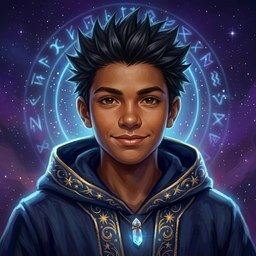
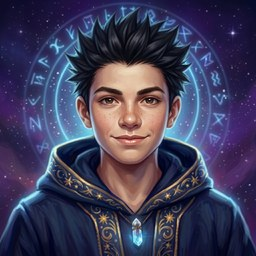
Duelo v40: Gohan Gog branco, Dudu calvo

diff --git a/duelo/service-worker.js b/duelo/service-worker.js
@@ -1,4 +1,4 @@
-const CACHE="duelo-v39";
+const CACHE="duelo-v40";
 const FILES=["./","index.html","manifest.webmanifest","icon-192-v2.png","icon-512-v2.png","icon-mask-v2.png","img/a_n20.jpg","img/a_n21.jpg","img/a_n22.jpg","img/a_n23.jpg","img/a_n24.jpg","img/a_n25.jpg","img/a_n26.jpg","img/a_n27.jpg","img/a_n28.jpg","img/a_n29.jpg","img/a_n30.jpg","img/a_g8.jpg","img/a_c5.jpg","img/a_o6.jpg","img/a_z7.jpg","img/a_z8.jpg","img/a_d1.jpg","img/a_d3.jpg","img/a_d5.jpg","img/a_d6.jpg","img/a_i1.jpg","img/a_i2.jpg","img/a_i3.jpg","img/a_i5.jpg","img/a_i6.jpg","img/a_i7.jpg","img/a_pi1.jpg","img/a_pi2.jpg","img/a_pi3.jpg","img/a_pi4.jpg","img/a_pi5.jpg","img/a_pi6.jpg","img/a_pi7.jpg","img/a_pi8.jpg","img/a_pi9.jpg","img/a_pi10.jpg","img/a_pi11.jpg","img/a_pi12.jpg","img/a_te1.jpg","img/a_te2.jpg","img/a_te3.jpg","img/a_te4.jpg","img/a_te5.jpg","img/a_te6.jpg","img/a_te7.jpg","img/a_te8.jpg","img/a_te9.jpg","img/a_te10.jpg","img/a_te11.jpg","img/a_te12.jpg","img/a_du1.jpg","img/a_du2.jpg","img/a_du3.jpg","img/a_du4.jpg","img/a_du5.jpg","img/a_du6.jpg","img/a_du7.jpg","img/a_du8.jpg","img/a_du9.jpg","img/a_du10.jpg","img/a_du11.jpg","img/a_du12.jpg","img/a_sn1.jpg","img/a_sn2.jpg","img/a_sn3.jpg","img/a_sn4.jpg","img/a_sn5.jpg","img/a_sn6.jpg","img/a_sn7.jpg","img/a_sn8.jpg","img/a_sn9.jpg","img/a_sn10.jpg","img/a_sn11.jpg","img/a_sn12.jpg","img/a_ca1.jpg","img/a_ca2.jpg","img/a_ca3.jpg","img/a_ca4.jpg","img/a_ca5.jpg","img/a_ca6.jpg","img/a_ca7.jpg","img/a_ca8.jpg","img/a_ca9.jpg","img/a_ca10.jpg","img/a_ca11.jpg","img/a_ca12.jpg","img/a_ne1.jpg","img/a_ne2.jpg","img/a_ne3.jpg","img/a_ne4.jpg","img/a_ne5.jpg","img/a_ne6.jpg","img/a_ne7.jpg","img/a_ne8.jpg","img/a_ne9.jpg","img/a_ne10.jpg","img/a_ne11.jpg","img/a_ne12.jpg","img/a_b1.jpg","img/a_b2.jpg","img/a_b3.jpg","img/a_b4.jpg","img/a_b5.jpg","img/a_b6.jpg","img/a_b7.jpg","img/e1.jpg","img/e2.jpg","img/e3.jpg","img/e4.jpg","img/e5.jpg","img/intro_carta.png","img/intro_dragao.jpg","img/intro_fogo.mp3","img/intro_hora.mp3","img/m1.jpg","img/m10.jpg","img/m11.jpg","img/m12.jpg","img/m13.jpg","img/m14.jpg","img/m15.jpg","img/m16.jpg","img/m17.jpg","img/m18.jpg","img/m19.jpg","img/m2.jpg","img/m20.jpg","img/m21.jpg","img/m3.jpg","img/m4.jpg","img/m5.jpg","img/m6.jpg","img/m7.jpg","img/m8.jpg","img/m9.jpg","img/n1.jpg","img/n10.jpg","img/n11.jpg","img/n12.jpg","img/n13.jpg","img/n14.jpg","img/n15.jpg","img/n16.jpg","img/n17.jpg","img/n18.jpg","img/n2.jpg","img/n3.jpg","img/n4.jpg","img/n5.jpg","img/n6.jpg","img/n7.jpg","img/n8.jpg","img/n9.jpg","img/p_caio.jpg","img/p_dudu.jpg","img/p_iara.jpg","img/p_milao.jpg","img/p_nando.jpg","img/p_neri.jpg","img/p_otavio.jpg","img/p_pimp.jpg","img/p_snaf.jpg","img/p_telo.jpg","img/p_tiao.jpg","img/p_zeca.jpg","img/s1.jpg","img/s2.jpg","img/s3.jpg","img/s4.jpg","img/s5.jpg","img/s6.jpg","img/s7.jpg","img/s8.jpg","img/s9.jpg","img/t1.jpg","img/t2.jpg","img/t3.jpg","img/t4.jpg","voz/cabeca/atk0.mp3","voz/cabeca/atk1.mp3","voz/cabeca/atk2.mp3","voz/cabeca/atk3.mp3","voz/cabeca/atk4.mp3","voz/cabeca/c_ca10.mp3","voz/cabeca/c_ca11.mp3","voz/cabeca/c_ca12.mp3","voz/cabeca/c_ca9.mp3","voz/cabeca/c_g1.mp3","voz/cabeca/c_g2.mp3","voz/cabeca/c_g3.mp3","voz/cabeca/c_g4.mp3","voz/cabeca/c_g5.mp3","voz/cabeca/c_g6.mp3","voz/cabeca/c_g7.mp3","voz/cabeca/c_g8.mp3","voz/cabeca/c_n20.mp3","voz/cabeca/c_n22.mp3","voz/cabeca/c_n24.mp3","voz/cabeca/c_s2.mp3","voz/cabeca/c_s3.mp3","voz/cabeca/c_s4.mp3","voz/cabeca/c_s5.mp3","voz/cabeca/c_s7.mp3","voz/cabeca/c_t1.mp3","voz/cabeca/c_t2.mp3","voz/cabeca/c_t3.mp3","voz/cabeca/c_t4.mp3","voz/cabeca/dano0.mp3","voz/cabeca/dano1.mp3","voz/cabeca/dano2.mp3","voz/cabeca/dano3.mp3","voz/cabeca/dano4.mp3","voz/cabeca/dano5.mp3","voz/cabeca/ganhei0.mp3","voz/cabeca/inicio0.mp3","voz/cabeca/inv0.mp3","voz/cabeca/inv1.mp3","voz/cabeca/inv2.mp3","voz/cabeca/inv3.mp3","voz/cabeca/inv4.mp3","voz/cabeca/magia0.mp3","voz/cabeca/magia1.mp3","voz/cabeca/magia2.mp3","voz/cabeca/magia3.mp3","voz/cabeca/pass0.mp3","voz/cabeca/pass1.mp3","voz/cabeca/pass2.mp3","voz/cabeca/pass3.mp3","voz/cabeca/perdi0.mp3","voz/cabeca/perdi1.mp3","voz/cabeca/reage0.mp3","voz/cabeca/reage1.mp3","voz/cabeca/reage2.mp3","voz/cabeca/reage3.mp3","voz/cabeca/reage4.mp3","voz/cabeca/reage5.mp3","voz/cabeca/reage6.mp3","voz/cabeca/reage7.mp3","voz/cabeca/susto0.mp3","voz/cabeca/susto1.mp3","voz/cabeca/susto2.mp3","voz/cabeca/susto3.mp3","voz/caio/atk0.mp3","voz/caio/atk1.mp3","voz/caio/atk2.mp3","voz/caio/atk3.mp3","voz/caio/atk4.mp3","voz/caio/c_g1.mp3","voz/caio/c_g2.mp3","voz/caio/c_g3.mp3","voz/caio/c_g4.mp3","voz/caio/c_g5.mp3","voz/caio/c_g7.mp3","voz/caio/c_n3.mp3","voz/caio/c_s1.mp3","voz/caio/c_s3.mp3","voz/caio/c_s4.mp3","voz/caio/c_s5.mp3","voz/caio/c_s6.mp3","voz/caio/c_s7.mp3","voz/caio/c_s8.mp3","voz/caio/c_s9.mp3","voz/caio/c_t1.mp3","voz/caio/c_t2.mp3","voz/caio/c_t3.mp3","voz/caio/c_t4.mp3","voz/caio/dano0.mp3","voz/caio/dano1.mp3","voz/caio/dano2.mp3","voz/caio/dano3.mp3","voz/caio/dano4.mp3","voz/caio/dano5.mp3","voz/caio/ganhei0.mp3","voz/caio/inicio0.mp3","voz/caio/inv0.mp3","voz/caio/inv1.mp3","voz/caio/inv2.mp3","voz/caio/inv3.mp3","voz/caio/inv4.mp3","voz/caio/magia0.mp3","voz/caio/magia1.mp3","voz/caio/magia2.mp3","voz/caio/magia3.mp3","voz/caio/pass0.mp3","voz/caio/pass1.mp3","voz/caio/pass2.mp3","voz/caio/pass3.mp3","voz/caio/perdi0.mp3","voz/caio/perdi1.mp3","voz/caio/reage0.mp3","voz/caio/reage1.mp3","voz/caio/reage2.mp3","voz/caio/reage3.mp3","voz/caio/reage4.mp3","voz/caio/reage5.mp3","voz/caio/reage6.mp3","voz/caio/reage7.mp3","voz/caio/susto0.mp3","voz/caio/susto1.mp3","voz/caio/susto2.mp3","voz/caio/susto3.mp3","voz/conde/atk0.mp3","voz/conde/atk1.mp3","voz/conde/atk2.mp3","voz/conde/atk3.mp3","voz/conde/atk4.mp3","voz/conde/c_b2.mp3","voz/conde/c_b3.mp3","voz/conde/c_b4.mp3","voz/conde/c_g1.mp3","voz/conde/c_g2.mp3","voz/conde/c_g3.mp3","voz/conde/c_g4.mp3","voz/conde/c_g5.mp3","voz/conde/c_g6.mp3","voz/conde/c_g7.mp3","voz/conde/c_n18.mp3","voz/conde/c_n3.mp3","voz/conde/c_s1.mp3","voz/conde/c_s3.mp3","voz/conde/c_s4.mp3","voz/conde/c_s5.mp3","voz/conde/c_s6.mp3","voz/conde/c_s7.mp3","voz/conde/c_s8.mp3","voz/conde/c_s9.mp3","voz/conde/c_t1.mp3","voz/conde/c_t2.mp3","voz/conde/c_t3.mp3","voz/conde/c_t4.mp3","voz/conde/dano0.mp3","voz/conde/dano1.mp3","voz/conde/dano2.mp3","voz/conde/dano3.mp3","voz/conde/dano4.mp3","voz/conde/dano5.mp3","voz/conde/ganhei0.mp3","voz/conde/inicio0.mp3","voz/conde/inv0.mp3","voz/conde/inv1.mp3","voz/conde/inv2.mp3","voz/conde/inv3.mp3","voz/conde/inv4.mp3","voz/conde/magia0.mp3","voz/conde/magia1.mp3","voz/conde/magia2.mp3","voz/conde/magia3.mp3","voz/conde/pass0.mp3","voz/conde/pass1.mp3","voz/conde/pass2.mp3","voz/conde/pass3.mp3","voz/conde/perdi0.mp3","voz/conde/perdi1.mp3","voz/conde/reage0.mp3","voz/conde/reage1.mp3","voz/conde/reage2.mp3","voz/conde/reage3.mp3","voz/conde/reage4.mp3","voz/conde/reage5.mp3","voz/conde/reage6.mp3","voz/conde/reage7.mp3","voz/conde/susto0.mp3","voz/conde/susto1.mp3","voz/conde/susto2.mp3","voz/conde/susto3.mp3","voz/dudu/atk0.mp3","voz/dudu/atk1.mp3","voz/dudu/atk2.mp3","voz/dudu/atk3.mp3","voz/dudu/atk4.mp3","voz/dudu/c_du10.mp3","voz/dudu/c_du11.mp3","voz/dudu/c_du12.mp3","voz/dudu/c_du9.mp3","voz/dudu/c_g1.mp3","voz/dudu/c_g2.mp3","voz/dudu/c_g3.mp3","voz/dudu/c_g4.mp3","voz/dudu/c_g5.mp3","voz/dudu/c_g6.mp3","voz/dudu/c_g7.mp3","voz/dudu/c_n11.mp3","voz/dudu/c_n7.mp3","voz/dudu/c_s2.mp3","voz/dudu/c_s3.mp3","voz/dudu/c_s4.mp3","voz/dudu/c_s5.mp3","voz/dudu/c_s7.mp3","voz/dudu/c_s8.mp3","voz/dudu/c_s9.mp3","voz/dudu/c_t1.mp3","voz/dudu/c_t2.mp3","voz/dudu/c_t3.mp3","voz/dudu/c_t4.mp3","voz/dudu/dano0.mp3","voz/dudu/dano1.mp3","voz/dudu/dano2.mp3","voz/dudu/dano3.mp3","voz/dudu/dano4.mp3","voz/dudu/dano5.mp3","voz/dudu/ganhei0.mp3","voz/dudu/inicio0.mp3","voz/dudu/inv0.mp3","voz/dudu/inv1.mp3","voz/dudu/inv2.mp3","voz/dudu/inv3.mp3","voz/dudu/inv4.mp3","voz/dudu/magia0.mp3","voz/dudu/magia1.mp3","voz/dudu/magia2.mp3","voz/dudu/magia3.mp3","voz/dudu/pass0.mp3","voz/dudu/pass1.mp3","voz/dudu/pass2.mp3","voz/dudu/pass3.mp3","voz/dudu/perdi0.mp3","voz/dudu/perdi1.mp3","voz/dudu/reage0.mp3","voz/dudu/reage1.mp3","voz/dudu/reage2.mp3","voz/dudu/reage3.mp3","voz/dudu/reage4.mp3","voz/dudu/reage5.mp3","voz/dudu/reage6.mp3","voz/dudu/reage7.mp3","voz/dudu/susto0.mp3","voz/dudu/susto1.mp3","voz/dudu/susto2.mp3","voz/dudu/susto3.mp3","voz/iara/atk0.mp3","voz/iara/atk1.mp3","voz/iara/atk2.mp3","voz/iara/atk3.mp3","voz/iara/atk4.mp3","voz/iara/c_g1.mp3","voz/iara/c_g2.mp3","voz/iara/c_g3.mp3","voz/iara/c_g4.mp3","voz/iara/c_g5.mp3","voz/iara/c_g6.mp3","voz/iara/c_g7.mp3","voz/iara/c_g8.mp3","voz/iara/c_i6.mp3","voz/iara/c_i7.mp3","voz/iara/c_n24.mp3","voz/iara/c_n30.mp3","voz/iara/c_s3.mp3","voz/iara/c_s4.mp3","voz/iara/c_s5.mp3","voz/iara/c_s6.mp3","voz/iara/c_s7.mp3","voz/iara/c_s8.mp3","voz/iara/c_s9.mp3","voz/iara/c_t1.mp3","voz/iara/c_t2.mp3","voz/iara/c_t3.mp3","voz/iara/c_t4.mp3","voz/iara/dano0.mp3","voz/iara/dano1.mp3","voz/iara/dano2.mp3","voz/iara/dano3.mp3","voz/iara/dano4.mp3","voz/iara/dano5.mp3","voz/iara/ganhei0.mp3","voz/iara/inicio0.mp3","voz/iara/inv0.mp3","voz/iara/inv1.mp3","voz/iara/inv2.mp3","voz/iara/inv3.mp3","voz/iara/inv4.mp3","voz/iara/magia0.mp3","voz/iara/magia1.mp3","voz/iara/magia2.mp3","voz/iara/magia3.mp3","voz/iara/pass0.mp3","voz/iara/pass1.mp3","voz/iara/pass2.mp3","voz/iara/pass3.mp3","voz/iara/perdi0.mp3","voz/iara/perdi1.mp3","voz/iara/reage0.mp3","voz/iara/reage1.mp3","voz/iara/reage2.mp3","voz/iara/reage3.mp3","voz/iara/reage4.mp3","voz/iara/reage5.mp3","voz/iara/reage6.mp3","voz/iara/reage7.mp3","voz/iara/susto0.mp3","voz/iara/susto1.mp3","voz/iara/susto2.mp3","voz/iara/susto3.mp3","voz/nando/atk0.mp3","voz/nando/atk1.mp3","voz/nando/atk2.mp3","voz/nando/atk3.mp3","voz/nando/atk4.mp3","voz/nando/c_d6.mp3","voz/nando/c_g1.mp3","voz/nando/c_g2.mp3","voz/nando/c_g3.mp3","voz/nando/c_g4.mp3","voz/nando/c_g5.mp3","voz/nando/c_g6.mp3","voz/nando/c_g7.mp3","voz/nando/c_g8.mp3","voz/nando/c_n20.mp3","voz/nando/c_n22.mp3","voz/nando/c_n23.mp3","voz/nando/c_n24.mp3","voz/nando/c_s2.mp3","voz/nando/c_s3.mp3","voz/nando/c_s4.mp3","voz/nando/c_s5.mp3","voz/nando/c_s7.mp3","voz/nando/c_s8.mp3","voz/nando/c_t1.mp3","voz/nando/c_t2.mp3","voz/nando/c_t3.mp3","voz/nando/c_t4.mp3","voz/nando/dano0.mp3","voz/nando/dano1.mp3","voz/nando/dano2.mp3","voz/nando/dano3.mp3","voz/nando/dano4.mp3","voz/nando/dano5.mp3","voz/nando/ganhei0.mp3","voz/nando/inicio0.mp3","voz/nando/inv0.mp3","voz/nando/inv1.mp3","voz/nando/inv2.mp3","voz/nando/inv3.mp3","voz/nando/inv4.mp3","voz/nando/magia0.mp3","voz/nando/magia1.mp3","voz/nando/magia2.mp3","voz/nando/magia3.mp3","voz/nando/pass0.mp3","voz/nando/pass1.mp3","voz/nando/pass2.mp3","voz/nando/pass3.mp3","voz/nando/perdi0.mp3","voz/nando/perdi1.mp3","voz/nando/reage0.mp3","voz/nando/reage1.mp3","voz/nando/reage2.mp3","voz/nando/reage3.mp3","voz/nando/reage4.mp3","voz/nando/reage5.mp3","voz/nando/reage6.mp3","voz/nando/reage7.mp3","voz/nando/susto0.mp3","voz/nando/susto1.mp3","voz/nando/susto2.mp3","voz/nando/susto3.mp3","voz/neri/atk0.mp3","voz/neri/atk1.mp3","voz/neri/atk2.mp3","voz/neri/atk3.mp3","voz/neri/atk4.mp3","voz/neri/c_g1.mp3","voz/neri/c_g2.mp3","voz/neri/c_g3.mp3","voz/neri/c_g4.mp3","voz/neri/c_g5.mp3","voz/neri/c_g6.mp3","voz/neri/c_g7.mp3","voz/neri/c_g8.mp3","voz/neri/c_n24.mp3","voz/neri/c_ne10.mp3","voz/neri/c_ne11.mp3","voz/neri/c_ne12.mp3","voz/neri/c_ne9.mp3","voz/neri/c_s3.mp3","voz/neri/c_s4.mp3","voz/neri/c_s5.mp3","voz/neri/c_s6.mp3","voz/neri/c_s7.mp3","voz/neri/c_s8.mp3","voz/neri/c_s9.mp3","voz/neri/c_t1.mp3","voz/neri/c_t2.mp3","voz/neri/c_t3.mp3","voz/neri/c_t4.mp3","voz/neri/dano0.mp3","voz/neri/dano1.mp3","voz/neri/dano2.mp3","voz/neri/dano3.mp3","voz/neri/dano4.mp3","voz/neri/dano5.mp3","voz/neri/ganhei0.mp3","voz/neri/inicio0.mp3","voz/neri/inv0.mp3","voz/neri/inv1.mp3","voz/neri/inv2.mp3","voz/neri/inv3.mp3","voz/neri/inv4.mp3","voz/neri/magia0.mp3","voz/neri/magia1.mp3","voz/neri/magia2.mp3","voz/neri/magia3.mp3","voz/neri/pass0.mp3","voz/neri/pass1.mp3","voz/neri/pass2.mp3","voz/neri/pass3.mp3","voz/neri/perdi0.mp3","voz/neri/perdi1.mp3","voz/neri/reage0.mp3","voz/neri/reage1.mp3","voz/neri/reage2.mp3","voz/neri/reage3.mp3","voz/neri/reage4.mp3","voz/neri/reage5.mp3","voz/neri/reage6.mp3","voz/neri/reage7.mp3","voz/neri/susto0.mp3","voz/neri/susto1.mp3","voz/neri/susto2.mp3","voz/neri/susto3.mp3","voz/otavio/atk0.mp3","voz/otavio/atk1.mp3","voz/otavio/atk2.mp3","voz/otavio/atk3.mp3","voz/otavio/atk4.mp3","voz/otavio/c_g1.mp3","voz/otavio/c_g2.mp3","voz/otavio/c_g3.mp3","voz/otavio/c_g4.mp3","voz/otavio/c_g5.mp3","voz/otavio/c_g6.mp3","voz/otavio/c_g7.mp3","voz/otavio/c_n7.mp3","voz/otavio/c_s1.mp3","voz/otavio/c_s2.mp3","voz/otavio/c_s3.mp3","voz/otavio/c_s4.mp3","voz/otavio/c_s5.mp3","voz/otavio/c_s7.mp3","voz/otavio/c_s8.mp3","voz/otavio/c_s9.mp3","voz/otavio/c_t1.mp3","voz/otavio/c_t2.mp3","voz/otavio/c_t3.mp3","voz/otavio/c_t4.mp3","voz/otavio/dano0.mp3","voz/otavio/dano1.mp3","voz/otavio/dano2.mp3","voz/otavio/dano3.mp3","voz/otavio/dano4.mp3","voz/otavio/dano5.mp3","voz/otavio/ganhei0.mp3","voz/otavio/inicio0.mp3","voz/otavio/inv0.mp3","voz/otavio/inv1.mp3","voz/otavio/inv2.mp3","voz/otavio/inv3.mp3","voz/otavio/inv4.mp3","voz/otavio/magia0.mp3","voz/otavio/magia1.mp3","voz/otavio/magia2.mp3","voz/otavio/magia3.mp3","voz/otavio/pass0.mp3","voz/otavio/pass1.mp3","voz/otavio/pass2.mp3","voz/otavio/pass3.mp3","voz/otavio/perdi0.mp3","voz/otavio/perdi1.mp3","voz/otavio/reage0.mp3","voz/otavio/reage1.mp3","voz/otavio/reage2.mp3","voz/otavio/reage3.mp3","voz/otavio/reage4.mp3","voz/otavio/reage5.mp3","voz/otavio/reage6.mp3","voz/otavio/reage7.mp3","voz/otavio/susto0.mp3","voz/otavio/susto1.mp3","voz/otavio/susto2.mp3","voz/otavio/susto3.mp3","voz/pimp/atk0.mp3","voz/pimp/atk1.mp3","voz/pimp/atk2.mp3","voz/pimp/atk3.mp3","voz/pimp/atk4.mp3","voz/pimp/c_g1.mp3","voz/pimp/c_g2.mp3","voz/pimp/c_g3.mp3","voz/pimp/c_g4.mp3","voz/pimp/c_g5.mp3","voz/pimp/c_g6.mp3","voz/pimp/c_g7.mp3","voz/pimp/c_g8.mp3","voz/pimp/c_n23.mp3","voz/pimp/c_n24.mp3","voz/pimp/c_pi10.mp3","voz/pimp/c_pi11.mp3","voz/pimp/c_pi12.mp3","voz/pimp/c_pi9.mp3","voz/pimp/c_s2.mp3","voz/pimp/c_s3.mp3","voz/pimp/c_s4.mp3","voz/pimp/c_s5.mp3","voz/pimp/c_s7.mp3","voz/pimp/c_s8.mp3","voz/pimp/c_s9.mp3","voz/pimp/c_t1.mp3","voz/pimp/c_t2.mp3","voz/pimp/c_t3.mp3","voz/pimp/c_t4.mp3","voz/pimp/dano0.mp3","voz/pimp/dano1.mp3","voz/pimp/dano2.mp3","voz/pimp/dano3.mp3","voz/pimp/dano4.mp3","voz/pimp/dano5.mp3","voz/pimp/ganhei0.mp3","voz/pimp/inicio0.mp3","voz/pimp/inv0.mp3","voz/pimp/inv1.mp3","voz/pimp/inv2.mp3","voz/pimp/inv3.mp3","voz/pimp/inv4.mp3","voz/pimp/magia0.mp3","voz/pimp/magia1.mp3","voz/pimp/magia2.mp3","voz/pimp/magia3.mp3","voz/pimp/pass0.mp3","voz/pimp/pass1.mp3","voz/pimp/pass2.mp3","voz/pimp/pass3.mp3","voz/pimp/perdi0.mp3","voz/pimp/perdi1.mp3","voz/pimp/reage0.mp3","voz/pimp/reage1.mp3","voz/pimp/reage2.mp3","voz/pimp/reage3.mp3","voz/pimp/reage4.mp3","voz/pimp/reage5.mp3","voz/pimp/reage6.mp3","voz/pimp/reage7.mp3","voz/pimp/susto0.mp3","voz/pimp/susto1.mp3","voz/pimp/susto2.mp3","voz/pimp/susto3.mp3","voz/snaf/atk0.mp3","voz/snaf/atk1.mp3","voz/snaf/atk2.mp3","voz/snaf/atk3.mp3","voz/snaf/atk4.mp3","voz/snaf/c_g1.mp3","voz/snaf/c_g2.mp3","voz/snaf/c_g3.mp3","voz/snaf/c_g4.mp3","voz/snaf/c_g5.mp3","voz/snaf/c_g6.mp3","voz/snaf/c_g7.mp3","voz/snaf/c_g8.mp3","voz/snaf/c_n24.mp3","voz/snaf/c_s2.mp3","voz/snaf/c_s3.mp3","voz/snaf/c_s4.mp3","voz/snaf/c_s5.mp3","voz/snaf/c_s7.mp3","voz/snaf/c_s8.mp3","voz/snaf/c_s9.mp3","voz/snaf/c_sn10.mp3","voz/snaf/c_sn11.mp3","voz/snaf/c_sn12.mp3","voz/snaf/c_sn9.mp3","voz/snaf/c_t1.mp3","voz/snaf/c_t2.mp3","voz/snaf/c_t3.mp3","voz/snaf/c_t4.mp3","voz/snaf/dano0.mp3","voz/snaf/dano1.mp3","voz/snaf/dano2.mp3","voz/snaf/dano3.mp3","voz/snaf/dano4.mp3","voz/snaf/dano5.mp3","voz/snaf/ganhei0.mp3","voz/snaf/inicio0.mp3","voz/snaf/inv0.mp3","voz/snaf/inv1.mp3","voz/snaf/inv2.mp3","voz/snaf/inv3.mp3","voz/snaf/inv4.mp3","voz/snaf/magia0.mp3","voz/snaf/magia1.mp3","voz/snaf/magia2.mp3","voz/snaf/magia3.mp3","voz/snaf/pass0.mp3","voz/snaf/pass1.mp3","voz/snaf/pass2.mp3","voz/snaf/pass3.mp3","voz/snaf/perdi0.mp3","voz/snaf/perdi1.mp3","voz/snaf/reage0.mp3","voz/snaf/reage1.mp3","voz/snaf/reage2.mp3","voz/snaf/reage3.mp3","voz/snaf/reage4.mp3","voz/snaf/reage5.mp3","voz/snaf/reage6.mp3","voz/snaf/reage7.mp3","voz/snaf/susto0.mp3","voz/snaf/susto1.mp3","voz/snaf/susto2.mp3","voz/snaf/susto3.mp3","voz/telo/atk0.mp3","voz/telo/atk1.mp3","voz/telo/atk2.mp3","voz/telo/atk3.mp3","voz/telo/atk4.mp3","voz/telo/c_g1.mp3","voz/telo/c_g2.mp3","voz/telo/c_g3.mp3","voz/telo/c_g4.mp3","voz/telo/c_g5.mp3","voz/telo/c_g6.mp3","voz/telo/c_g7.mp3","voz/telo/c_g8.mp3","voz/telo/c_n24.mp3","voz/telo/c_s1.mp3","voz/telo/c_s3.mp3","voz/telo/c_s4.mp3","voz/telo/c_s5.mp3","voz/telo/c_s7.mp3","voz/telo/c_s8.mp3","voz/telo/c_t1.mp3","voz/telo/c_t2.mp3","voz/telo/c_t3.mp3","voz/telo/c_t4.mp3","voz/telo/c_te10.mp3","voz/telo/c_te11.mp3","voz/telo/c_te12.mp3","voz/telo/c_te9.mp3","voz/telo/dano0.mp3","voz/telo/dano1.mp3","voz/telo/dano2.mp3","voz/telo/dano3.mp3","voz/telo/dano4.mp3","voz/telo/dano5.mp3","voz/telo/ganhei0.mp3","voz/telo/inicio0.mp3","voz/telo/inv0.mp3","voz/telo/inv1.mp3","voz/telo/inv2.mp3","voz/telo/inv3.mp3","voz/telo/inv4.mp3","voz/telo/magia0.mp3","voz/telo/magia1.mp3","voz/telo/magia2.mp3","voz/telo/magia3.mp3","voz/telo/pass0.mp3","voz/telo/pass1.mp3","voz/telo/pass2.mp3","voz/telo/pass3.mp3","voz/telo/perdi0.mp3","voz/telo/perdi1.mp3","voz/telo/reage0.mp3","voz/telo/reage1.mp3","voz/telo/reage2.mp3","voz/telo/reage3.mp3","voz/telo/reage4.mp3","voz/telo/reage5.mp3","voz/telo/reage6.mp3","voz/telo/reage7.mp3","voz/telo/susto0.mp3","voz/telo/susto1.mp3","voz/telo/susto2.mp3","voz/telo/susto3.mp3","voz/tiao/atk0.mp3","voz/tiao/atk1.mp3","voz/tiao/atk2.mp3","voz/tiao/atk3.mp3","voz/tiao/atk4.mp3","voz/tiao/c_g1.mp3","voz/tiao/c_g2.mp3","voz/tiao/c_g3.mp3","voz/tiao/c_g4.mp3","voz/tiao/c_g5.mp3","voz/tiao/c_g6.mp3","voz/tiao/c_g7.mp3","voz/tiao/c_g8.mp3","voz/tiao/c_h7.mp3","voz/tiao/c_h8.mp3","voz/tiao/c_n11.mp3","voz/tiao/c_n12.mp3","voz/tiao/c_s3.mp3","voz/tiao/c_s4.mp3","voz/tiao/c_s5.mp3","voz/tiao/c_s7.mp3","voz/tiao/c_s8.mp3","voz/tiao/c_s9.mp3","voz/tiao/c_t1.mp3","voz/tiao/c_t2.mp3","voz/tiao/c_t3.mp3","voz/tiao/c_t4.mp3","voz/tiao/dano0.mp3","voz/tiao/dano1.mp3","voz/tiao/dano2.mp3","voz/tiao/dano3.mp3","voz/tiao/dano4.mp3","voz/tiao/dano5.mp3","voz/tiao/ganhei0.mp3","voz/tiao/inicio0.mp3","voz/tiao/inv0.mp3","voz/tiao/inv1.mp3","voz/tiao/inv2.mp3","voz/tiao/inv3.mp3","voz/tiao/inv4.mp3","voz/tiao/magia0.mp3","voz/tiao/magia1.mp3","voz/tiao/magia2.mp3","voz/tiao/magia3.mp3","voz/tiao/pass0.mp3","voz/tiao/pass1.mp3","voz/tiao/pass2.mp3","voz/tiao/pass3.mp3","voz/tiao/perdi0.mp3","voz/tiao/perdi1.mp3","voz/tiao/reage0.mp3","voz/tiao/reage1.mp3","voz/tiao/reage2.mp3","voz/tiao/reage3.mp3","voz/tiao/reage4.mp3","voz/tiao/reage5.mp3","voz/tiao/reage6.mp3","voz/tiao/reage7.mp3","voz/tiao/susto0.mp3","voz/tiao/susto1.mp3","voz/tiao/susto2.mp3","voz/tiao/susto3.mp3","voz/zeca/atk0.mp3","voz/zeca/atk1.mp3","voz/zeca/atk2.mp3","voz/zeca/atk3.mp3","voz/zeca/atk4.mp3","voz/zeca/c_g1.mp3","voz/zeca/c_g2.mp3","voz/zeca/c_g3.mp3","voz/zeca/c_g4.mp3","voz/zeca/c_g5.mp3","voz/zeca/c_g6.mp3","voz/zeca/c_g7.mp3","voz/zeca/c_g8.mp3","voz/zeca/c_n12.mp3","voz/zeca/c_n18.mp3","voz/zeca/c_s3.mp3","voz/zeca/c_s4.mp3","voz/zeca/c_s5.mp3","voz/zeca/c_s6.mp3","voz/zeca/c_s7.mp3","voz/zeca/c_s8.mp3","voz/zeca/c_s9.mp3","voz/zeca/c_t1.mp3","voz/zeca/c_t2.mp3","voz/zeca/c_t3.mp3","voz/zeca/c_t4.mp3","voz/zeca/c_z6.mp3","voz/zeca/c_z7.mp3","voz/zeca/c_z8.mp3","voz/zeca/dano0.mp3","voz/zeca/dano1.mp3","voz/zeca/dano2.mp3","voz/zeca/dano3.mp3","voz/zeca/dano4.mp3","voz/zeca/dano5.mp3","voz/zeca/ganhei0.mp3","voz/zeca/inicio0.mp3","voz/zeca/inv0.mp3","voz/zeca/inv1.mp3","voz/zeca/inv2.mp3","voz/zeca/inv3.mp3","voz/zeca/inv4.mp3","voz/zeca/magia0.mp3","voz/zeca/magia1.mp3","voz/zeca/magia2.mp3","voz/zeca/magia3.mp3","voz/zeca/pass0.mp3","voz/zeca/pass1.mp3","voz/zeca/pass2.mp3","voz/zeca/pass3.mp3","voz/zeca/perdi0.mp3","voz/zeca/perdi1.mp3","voz/zeca/reage0.mp3","voz/zeca/reage1.mp3","voz/zeca/reage2.mp3","voz/zeca/reage3.mp3","voz/zeca/reage4.mp3","voz/zeca/reage5.mp3","voz/zeca/reage6.mp3","voz/zeca/reage7.mp3","voz/zeca/susto0.mp3","voz/zeca/susto1.mp3","voz/zeca/susto2.mp3","voz/zeca/susto3.mp3"];
 self.addEventListener("install",e=>{self.skipWaiting();e.waitUntil(caches.open(CACHE).then(c=>Promise.all(FILES.map(f=>c.add(f).catch(()=>{})))));});
 self.addEventListener("activate",e=>{e.waitUntil(caches.keys().then(k=>Promise.all(k.filter(x=>x!==CACHE).map(x=>caches.delete(x)))).then(()=>self.clients.claim()));});

diff --git a/duelo/index.html b/duelo/index.html
@@ -116,7 +116,7 @@ input{font-size:18px;padding:10px;border-radius:10px;border:0;width:100%;text-al
   <button class="sec" onclick="regras()">📖 Regras</button>
   <div id="lobby" class="esc" style="margin-top:10px"></div>
  </div>
- <div id="verTag" style="font-size:11px;opacity:.6">versão 39</div>
+ <div id="verTag" style="font-size:11px;opacity:.6">versão 40</div>
 </div>
 
 <div id="escolha" class="esc"><h2 style="color:#fbbf24">Escolha seu duelista</h2><div id="persGrid"></div><button class="sec" onclick="voltaMenu()">⬅ Voltar</button></div>
